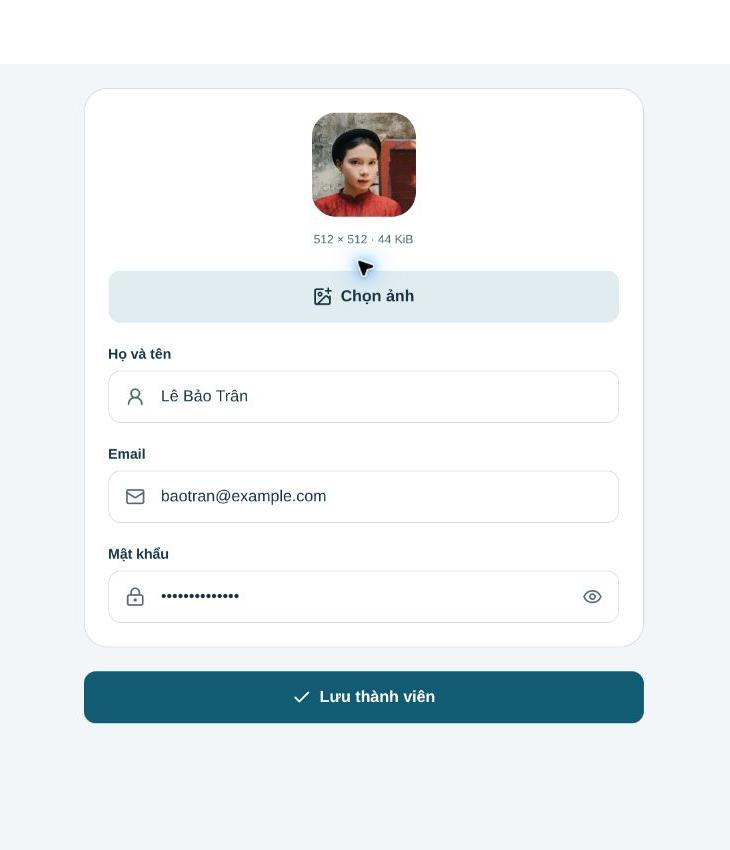
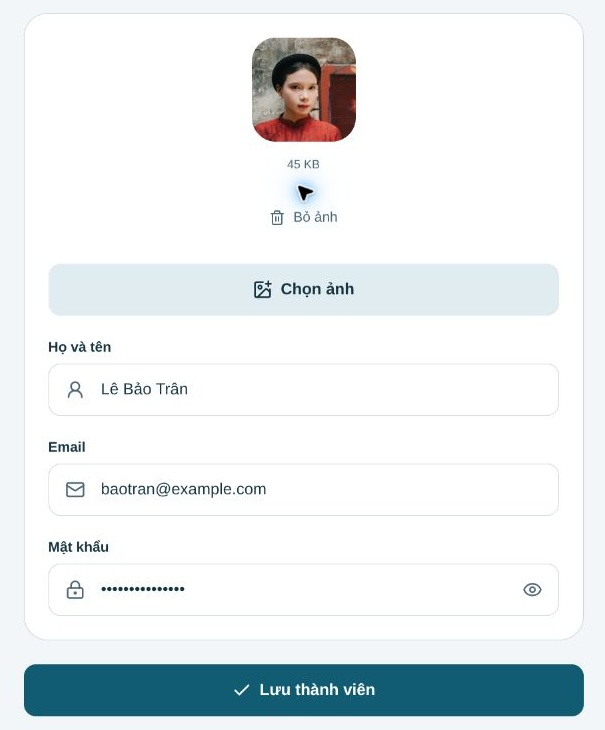
feat: complete member editing and deletion

diff --git a/src/components/member-form.tsx b/src/components/member-form.tsx
@@ -1,5 +1,5 @@
 import { router, usePreventRemove } from 'expo-router';
-import { Camera, Check, Eye, EyeOff, ImagePlus, LockKeyhole, Mail, UserRound } from 'lucide-react-native';
+import { Camera, Check, Eye, EyeOff, ImagePlus, LockKeyhole, Mail, Trash2, UserRound } from 'lucide-react-native';
 import { useEffect, useRef, useState } from 'react';
 import { KeyboardAvoidingView, Platform, Pressable, ScrollView, Text, View } from 'react-native';
 import { useSafeAreaInsets } from 'react-native-safe-area-context';
@@ -10,17 +10,17 @@ import { MemberAvatar } from '@/components/member-avatar';
 import { ControlHeight, Radius, Spacing, TypeSize } from '@/constants/theme';
 import { useTheme } from '@/hooks/use-theme';
 import { pickAvatar, uploadAvatar, type PreparedAvatar } from '@/services/avatars';
-import { createMember, type Member } from '@/services/members';
+import { createMember, updateMember, type Member } from '@/services/members';
 
-export function MemberForm() {
+export function MemberForm({ member }: { member?: Member }) {
   const theme = useTheme(); const insets = useSafeAreaInsets();
-  const [hoten, setName] = useState(''); const [email, setEmail] = useState(''); const [password, setPassword] = useState('');
+  const [hoten, setName] = useState(member?.hoten ?? ''); const [email, setEmail] = useState(member?.email ?? ''); const [password, setPassword] = useState('');
   const [visible, setVisible] = useState(false); const [avatar, setAvatar] = useState<PreparedAvatar | null>(null);
-  const [uploaded, setUploaded] = useState(''); const [busy, setBusy] = useState(false); const [error, setError] = useState('');
+  const [uploaded, setUploaded] = useState(member?.hinhanh ?? ''); const [busy, setBusy] = useState(false); const [error, setError] = useState('');
   const [progress, setProgress] = useState<number | null>(null); const [created, setCreated] = useState<Member | null>(null);
   const [discard, setDiscard] = useState(false); const [leave, setLeave] = useState<(() => void) | null>(null);
   const submitting = useRef(false);
-  const dirty = !!(hoten || email || password || avatar);
+  const dirty = hoten !== (member?.hoten ?? '') || email !== (member?.email ?? '') || !!password || !!avatar || uploaded !== (member?.hinhanh ?? '');
   const disablePrevention = usePreventRemove((dirty || busy) && !created && !discard, ({ repeat }) => {
     if (!busy) setLeave(() => repeat);
   });
@@ -41,15 +41,19 @@ export function MemberForm() {
 
   async function save() {
     if (submitting.current) return;
-    if (!hoten.trim() || !/^[^\s@]+@[^\s@]+\.[^\s@]+$/.test(email.trim()) || password.length < 8) {
-      setError('Nhập họ tên, email hợp lệ và mật khẩu từ 8 ký tự.'); return;
+    if (!hoten.trim() || !/^[^\s@]+@[^\s@]+\.[^\s@]+$/.test(email.trim())) {
+      setError('Nhập họ tên và email hợp lệ.'); return;
+    }
+    if ((!member || password) && password.length < 8) {
+      setError('Mật khẩu cần từ 8 ký tự.'); return;
     }
     submitting.current = true; setBusy(true); setError('');
     try {
       let url = uploaded;
       if (avatar && !url) { setProgress(0); url = await uploadAvatar(avatar, setProgress); setUploaded(url); }
       setProgress(null);
-      setCreated(await createMember({ email, hoten, matkhau: password, hinhanh: url }));
+      const input = { email, hoten, matkhau: password, hinhanh: url };
+      setCreated(member ? await updateMember(member.id, input) : await createMember(input));
       setPassword('');
     } catch (failure) { setError((failure as Error).message); }
     finally { submitting.current = false; setBusy(false); setProgress(null); }
@@ -62,11 +66,16 @@ export function MemberForm() {
         <View style={{ backgroundColor: theme.backgroundElement, borderRadius: Radius.surface,
           padding: Spacing.four, borderWidth: 1, borderColor: theme.border, gap: Spacing.four }}>
           <View style={{ alignItems: 'center', gap: Spacing.three }}>
-            <MemberAvatar uri={avatar?.uri ?? ''} name={hoten || 'thành viên'} size={104} />
+            <MemberAvatar uri={avatar?.uri ?? uploaded} name={hoten || 'thành viên'} size={104} />
             {avatar && <Text style={{ color: theme.textSecondary, fontSize: TypeSize.caption }}>
-              {avatar.width} × {avatar.height} · {Math.ceil(avatar.bytes.length / 1024)} KiB
+              {Math.ceil(avatar.bytes.length / 1000)} KB
             </Text>}
           </View>
+          {(avatar || uploaded) && <Pressable accessibilityRole="button" accessibilityLabel="Bỏ ảnh" disabled={busy}
+            onPress={() => { setAvatar(null); setUploaded(''); }}
+            style={{ minHeight: 44, flexDirection: 'row', gap: Spacing.two, alignItems: 'center', alignSelf: 'center' }}>
+            <Trash2 size={16} color={theme.textSecondary} accessible={false} /><Text style={{ color: theme.textSecondary }}>Bỏ ảnh</Text>
+          </Pressable>}
           <View style={{ flexDirection: 'row', flexWrap: 'wrap', gap: Spacing.two }}>
             <View style={{ flex: 1, minWidth: 140 }}><ActionButton title="Chọn ảnh" icon={ImagePlus} secondary disabled={busy} onPress={() => void choose(false)} /></View>
             {Platform.OS !== 'web' && <View style={{ flex: 1, minWidth: 140 }}><ActionButton title="Chụp ảnh" icon={Camera} secondary disabled={busy} onPress={() => void choose(true)} /></View>}
@@ -74,8 +83,8 @@ export function MemberForm() {
           <FormField label="Họ và tên" icon={UserRound} value={hoten} onChangeText={setName} maxLength={100} autoCapitalize="words" editable={!busy} />
           <FormField label="Email" icon={Mail} value={email} onChangeText={setEmail} maxLength={254} autoCapitalize="none"
             autoCorrect={false} keyboardType="email-address" editable={!busy} />
-          <FormField label="Mật khẩu" icon={LockKeyhole} value={password} onChangeText={setPassword} maxLength={128}
-            placeholder="Từ 8 ký tự" secureTextEntry={!visible} autoCapitalize="none" autoCorrect={false} editable={!busy}
+          <FormField label={member ? 'Mật khẩu mới' : 'Mật khẩu'} icon={LockKeyhole} value={password} onChangeText={setPassword} maxLength={128}
+            placeholder={member ? 'Để trống để giữ mật khẩu cũ' : 'Từ 8 ký tự'} secureTextEntry={!visible} autoCapitalize="none" autoCorrect={false} editable={!busy}
             trailing={<Pressable accessibilityRole="button" accessibilityLabel={visible ? 'Ẩn mật khẩu' : 'Hiện mật khẩu'} onPress={() => setVisible(!visible)}
               style={{ minWidth: 44, minHeight: ControlHeight, justifyContent: 'center', alignItems: 'flex-end' }}>
               {visible ? <EyeOff size={20} color={theme.textSecondary} /> : <Eye size={20} color={theme.textSecondary} />}
@@ -87,7 +96,7 @@ export function MemberForm() {
           <View style={{ height: 4, backgroundColor: theme.backgroundSelected, borderRadius: Radius.control }}>
             <View style={{ height: 4, width: `${progress}%`, backgroundColor: theme.accent, borderRadius: Radius.control }} />
           </View></View>}
-        <ActionButton title={busy ? 'Đang xử lý…' : 'Lưu thành viên'} icon={Check} busy={busy} onPress={() => void save()} />
+        <ActionButton title={busy ? 'Đang lưu…' : member ? 'Lưu thay đổi' : 'Lưu thành viên'} icon={Check} busy={busy} onPress={() => void save()} />
       </View>
     </ScrollView>
     <ConfirmDialog visible={!!leave && !discard} title="Bỏ thay đổi?" message="Thông tin chưa lưu sẽ bị mất."

diff --git a/src/app/members/[id].tsx b/src/app/members/[id].tsx
@@ -1,21 +1,32 @@
-import { useLocalSearchParams } from 'expo-router';
-import { LockKeyhole, Mail } from 'lucide-react-native';
-import { useCallback } from 'react';
+import { router, useLocalSearchParams } from 'expo-router';
+import { LockKeyhole, Mail, Pencil, Trash2 } from 'lucide-react-native';
+import { useCallback, useRef, useState } from 'react';
 import { ActivityIndicator, ScrollView, Text, View } from 'react-native';
 import { useSafeAreaInsets } from 'react-native-safe-area-context';
 
 import { ActionButton } from '@/components/form-controls';
+import { ConfirmDialog } from '@/components/confirm-dialog';
 import { MemberAvatar } from '@/components/member-avatar';
 import { Radius, Spacing, TypeSize } from '@/constants/theme';
 import { useTheme } from '@/hooks/use-theme';
 import { useRemoteData } from '@/hooks/use-remote-data';
-import { getMember } from '@/services/members';
+import { deleteMember, getMember } from '@/services/members';
 
 export default function MemberScreen() {
   const { id } = useLocalSearchParams<{ id: string }>();
   const theme = useTheme(); const insets = useSafeAreaInsets();
   const load = useCallback(() => getMember(id), [id]);
   const { data: member, error, busy, reload } = useRemoteData(load);
+  const [confirm, setConfirm] = useState(false); const [removing, setRemoving] = useState(false); const [actionError, setActionError] = useState('');
+  const deleting = useRef(false);
+
+  async function remove() {
+    if (deleting.current || !member) return;
+    deleting.current = true; setRemoving(true); setActionError('');
+    try { await deleteMember(member.id); router.replace('/'); }
+    catch (failure) { setActionError((failure as Error).message); setConfirm(false); }
+    finally { deleting.current = false; setRemoving(false); }
+  }
 
   return <ScrollView contentInsetAdjustmentBehavior="automatic" contentContainerStyle={{ padding: Spacing.four, paddingBottom: Math.max(insets.bottom, Spacing.four) }}>
     <View style={{ width: '100%', maxWidth: 560, alignSelf: 'center', gap: Spacing.four }}>
@@ -33,6 +44,16 @@ export default function MemberScreen() {
             <Text style={{ color: theme.textSecondary, fontSize: TypeSize.label }}>Mật khẩu đã đặt</Text></View>
         </View>
       </View>}
+      {!busy && !error && member && <>
+        <View style={{ flexDirection: 'row', gap: Spacing.three }}>
+          <View style={{ flex: 1 }}><ActionButton title="Sửa hồ sơ" icon={Pencil} disabled={removing}
+            onPress={() => router.push({ pathname: '/members/edit', params: { id: member.id } })} /></View>
+          <ActionButton title="Xóa" icon={Trash2} secondary danger disabled={removing} onPress={() => setConfirm(true)} />
+        </View>
+        {actionError ? <Text accessibilityRole="alert" style={{ color: theme.danger }}>{actionError}</Text> : null}
+        <ConfirmDialog visible={confirm} title="Xóa thành viên?" message={`${member.hoten}\n${member.email}`} confirmTitle="Xóa thành viên"
+          danger busy={removing} onCancel={() => setConfirm(false)} onConfirm={() => void remove()} />
+      </>}
     </View>
   </ScrollView>;
 }

diff --git a/src/components/form-controls.tsx b/src/components/form-controls.tsx
@@ -5,16 +5,17 @@ import { ActivityIndicator, Pressable, StyleSheet, Text, TextInput, View, type T
 import { ControlHeight, Radius, Spacing, TypeSize } from '@/constants/theme';
 import { useTheme } from '@/hooks/use-theme';
 
-export function ActionButton({ title, onPress, busy = false, secondary = false, disabled = false, icon: Icon }: {
-  title: string; onPress: () => void; busy?: boolean; secondary?: boolean; disabled?: boolean; icon?: LucideIcon;
+export function ActionButton({ title, onPress, busy = false, secondary = false, disabled = false, danger = false, icon: Icon }: {
+  title: string; onPress: () => void; busy?: boolean; secondary?: boolean; disabled?: boolean; danger?: boolean; icon?: LucideIcon;
 }) {
   const theme = useTheme();
+  const color = secondary ? danger ? theme.danger : theme.text : theme.onAccent;
   return <Pressable accessibilityRole="button" accessibilityLabel={title} accessibilityState={{ disabled: disabled || busy, busy }}
     disabled={disabled || busy} onPress={onPress} style={({ pressed }) => [styles.button,
-      { backgroundColor: secondary ? theme.backgroundSelected : theme.accent, opacity: disabled || busy ? 0.6 : pressed ? 0.8 : 1 }]}>
-    {busy && <ActivityIndicator color={secondary ? theme.text : theme.onAccent} />}
-    {!busy && Icon && <Icon size={20} color={secondary ? theme.text : theme.onAccent} accessible={false} />}
-    <Text style={{ color: secondary ? theme.text : theme.onAccent, fontSize: TypeSize.body, fontWeight: '600', flexShrink: 1 }}>{title}</Text>
+      { backgroundColor: secondary ? theme.backgroundSelected : danger ? theme.danger : theme.accent, opacity: disabled || busy ? 0.6 : pressed ? 0.8 : 1 }]}>
+    {busy && <ActivityIndicator color={color} />}
+    {!busy && Icon && <Icon size={20} color={color} accessible={false} />}
+    <Text style={{ color, fontSize: TypeSize.body, fontWeight: '600', flexShrink: 1 }}>{title}</Text>
   </Pressable>;
 }
 

diff --git a/src/components/confirm-dialog.tsx b/src/components/confirm-dialog.tsx
@@ -4,18 +4,19 @@ import { ActionButton } from '@/components/form-controls';
 import { Radius, Spacing, TypeSize } from '@/constants/theme';
 import { useTheme } from '@/hooks/use-theme';
 
-export function ConfirmDialog({ visible, title, message, confirmTitle, onCancel, onConfirm }: {
+export function ConfirmDialog({ visible, title, message, confirmTitle, onCancel, onConfirm, busy = false, danger = false }: {
   visible: boolean; title: string; message: string; confirmTitle: string; onCancel: () => void; onConfirm: () => void;
+  busy?: boolean; danger?: boolean;
 }) {
   const theme = useTheme();
-  return <Modal visible={visible} transparent onRequestClose={onCancel} animationType="fade">
+  return <Modal visible={visible} transparent onRequestClose={() => { if (!busy) onCancel(); }} animationType="fade">
     <View style={{ flex: 1, backgroundColor: 'rgba(0,0,0,0.4)', justifyContent: 'center', alignItems: 'center', padding: Spacing.four }}>
       <View accessibilityViewIsModal style={{ width: '100%', maxWidth: 400, backgroundColor: theme.backgroundElement,
         borderRadius: Radius.surface, padding: Spacing.four, gap: Spacing.four }}>
         <Text accessibilityRole="header" style={{ color: theme.text, fontSize: TypeSize.section, fontWeight: '600' }}>{title}</Text>
         <Text style={{ color: theme.textSecondary, fontSize: TypeSize.body, lineHeight: 24 }}>{message}</Text>
-        <ActionButton title={confirmTitle} onPress={onConfirm} />
-        <ActionButton title="Hủy" secondary onPress={onCancel} />
+        <ActionButton title={confirmTitle} danger={danger} busy={busy} onPress={onConfirm} />
+        <ActionButton title="Hủy" secondary disabled={busy} onPress={onCancel} />
       </View>
     </View>
   </Modal>;

diff --git a/src/app/members/edit.tsx b/src/app/members/edit.tsx
@@ -1,0 +1,23 @@
+import { useLocalSearchParams } from 'expo-router';
+import { useCallback } from 'react';
+import { ActivityIndicator, Text, View } from 'react-native';
+
+import { ActionButton } from '@/components/form-controls';
+import { MemberForm } from '@/components/member-form';
+import { Spacing } from '@/constants/theme';
+import { useRemoteData } from '@/hooks/use-remote-data';
+import { useTheme } from '@/hooks/use-theme';
+import { getMember } from '@/services/members';
+
+export default function EditMemberScreen() {
+  const { id } = useLocalSearchParams<{ id: string }>();
+  const theme = useTheme();
+  const load = useCallback(() => getMember(id), [id]);
+  const { data: member, busy, error, reload } = useRemoteData(load);
+  if (busy) return <ActivityIndicator color={theme.accent} accessibilityLabel="Đang tải hồ sơ" style={{ padding: Spacing.four }} />;
+  if (error || !member) return <View style={{ padding: Spacing.four, gap: Spacing.three }}>
+    <Text accessibilityRole="alert" style={{ color: theme.danger }}>{error || 'Không tìm thấy thành viên.'}</Text>
+    <ActionButton title="Thử lại" onPress={() => void reload()} />
+  </View>;
+  return <MemberForm key={member.id} member={member} />;
+}

diff --git a/src/app/members/_layout.tsx b/src/app/members/_layout.tsx
@@ -1,11 +1,17 @@
-import { Stack } from 'expo-router';
+import { router, Stack } from 'expo-router';
+import { ChevronLeft } from 'lucide-react-native';
+import { Pressable } from 'react-native';
 import { useTheme } from '@/hooks/use-theme';
 
 export default function MembersLayout() {
   const theme = useTheme();
   return <Stack screenOptions={{ headerStyle: { backgroundColor: theme.backgroundElement }, headerTintColor: theme.text,
-    headerShadowVisible: false, contentStyle: { backgroundColor: theme.background } }}>
+    headerShadowVisible: false, contentStyle: { backgroundColor: theme.background },
+    headerLeft: () => <Pressable accessibilityRole="button" accessibilityLabel="Quay lại"
+      onPress={() => router.canGoBack() ? router.back() : router.replace('/')}
+      style={{ minWidth: 44, minHeight: 44, justifyContent: 'center' }}><ChevronLeft size={24} color={theme.text} /></Pressable> }}>
     <Stack.Screen name="new" options={{ title: 'Thêm thành viên' }} />
     <Stack.Screen name="[id]" options={{ title: 'Hồ sơ thành viên' }} />
+    <Stack.Screen name="edit" options={{ title: 'Sửa thành viên' }} />
   </Stack>;
 }

diff --git a/src/services/members.ts b/src/services/members.ts
@@ -5,3 +5,5 @@ export type MemberInput = { email: string; hoten: string; matkhau: string; hinha
 export const listMembers = () => apiRequest<{ members: Member[]; limit: number }>('/members');
 export const getMember = (id: string) => apiRequest<Member>(`/members/${encodeURIComponent(id)}`);
 export const createMember = (input: MemberInput) => apiRequest<Member>('/members', { method: 'POST', body: JSON.stringify(input) });
+export const updateMember = (id: string, input: MemberInput) => apiRequest<Member>(`/members/${encodeURIComponent(id)}`, { method: 'PATCH', body: JSON.stringify(input) });
+export const deleteMember = (id: string) => apiRequest<{ deleted: boolean }>(`/members/${encodeURIComponent(id)}`, { method: 'DELETE' });

diff --git a/docs/submition/README.md b/docs/submition/README.md
@@ -86,11 +86,11 @@ Code gốc ở commit `feat: establish secure cloud admin access`; ảnh 08/09/2
 | `c2-03-create-api-code.png` | Code | API tạo hồ sơ, kiểm tra email trùng đồng thời ở server | R03 | Chưa chụp |
 | `c2-04-profile-response-code.png` | Code | API danh sách/chi tiết bỏ hash khỏi dữ liệu trả về | R04 | Chưa chụp |
 | `c2-05-member-form-code.png` | Code | Form và xử lý submit, hiện/ẩn mật khẩu, lỗi và chống bấm hai lần | R03–R04 | Chưa chụp |
-| `c2-06-web-create-before.jpg` | Thao tác | Nhập đủ email/mật khẩu/họ tên/ảnh, xem trước khi lưu | R03–R04 | Đã chụp Chrome: Lê Bảo Trân, ảnh 512 px / 44 KiB, mật khẩu được che |
+| `c2-06-web-create-before.jpg` | Thao tác | Nhập đủ email/mật khẩu/họ tên/ảnh, xem trước khi lưu | R03–R04 | Đã chụp lại Chrome sau góp ý: Lê Bảo Trân, ảnh áo dài, 45 KB, mật khẩu che |
 | `c2-07-web-upload.png` | Thao tác | Ảnh đang upload và trạng thái lưu; không báo thành công sớm | R03 | Chưa chụp |
 | `c2-08-web-list.jpg` | Kết quả | Danh sách vừa thêm có tên/email/ảnh | R04 | Đã chụp Chrome sau làm mới; ba hồ sơ giả từ web và Android |
 | `c2-09-web-detail.png` | Kết quả | Chi tiết hồ sơ đã lưu, ảnh và trạng thái đã đặt mật khẩu | R04 | Gộp vào ảnh 10 sau tải lại để tránh trùng |
-| `c2-10-web-detail-reloaded.jpg` | Kết quả | Tải lại trình duyệt, hồ sơ vẫn còn | R02–R04 | Đã chụp Chrome: tải lại vẫn còn tên/email/ảnh |
+| `c2-10-web-detail-reloaded.jpg` | Kết quả | Tải lại trình duyệt, hồ sơ vẫn còn | R02–R04 | Đã chụp lại Chrome: Nguyễn Minh Anh, ảnh chân dung, nút sửa/xóa mới |
 | `c2-11-firestore-four-fields-marked.jpg` | CSDL | Console hiển thị document đúng email, matkhau, hoten, hinhanh | R02, R11, S03 | Đã chụp Chrome Console; bốn trường, URL và hash bị rút gọn sẵn trong Console |
 | `c2-12-storage-avatar.jpg` | CSDL | File ảnh demo đúng bucket/prefix, không lộ token tải | R02, S03 | Đã chụp Chrome Console: đúng prefix, ba object JPEG; không mở download token |
 | `c2-13-duplicate-email.jpg` | Kiểm tra | Thêm email đã có bị từ chối, không tạo thêm document | R03 | Đã chụp Chrome: server từ chối email trùng, form còn nguyên |
@@ -114,12 +114,21 @@ Tên và email là dữ liệu minh họa; nguồn ảnh ở `demo-assets/README
 | `c3-02-email-transaction-code.png` | Code | Đổi email qua transaction, không mất hồ sơ hoặc ghi đè email cũ | R07 | Chưa chụp |
 | `c3-03-delete-api-code.png` | Code | Kiểm tra quyền rồi xóa đúng document; xử lý ảnh được tham chiếu | R06 | Chưa chụp |
 | `c3-04-delete-confirm-code.png` | Code | Hộp xác nhận đúng người và nhánh hủy không gửi lệnh xóa | R06 | Chưa chụp |
-| `c3-05-edit-before.png` | Thao tác | Hồ sơ và form trước khi đổi tên/email/ảnh | R07 | Chưa chụp |
-| `c3-06-edit-after.png` | Kết quả | Sau lưu/tải lại, UI và CSDL có thay đổi tương ứng | R07, S03 | Chưa chụp |
-| `c3-07-edit-duplicate-email.png` | Kiểm tra | Đổi sang email trùng bị chặn, hồ sơ cũ còn nguyên | R07 | Chưa chụp |
-| `c3-08-delete-cancel.png` | Thao tác | Mở xác nhận rồi hủy, hồ sơ không mất | R06 | Chưa chụp |
+| `c3-05-edit-before.jpg` | Thao tác | Form đổi tên/email/ảnh trước khi lưu | R07 | Đã chụp Chrome: Nguyễn Văn Rin, rin@example.com, ảnh mới, mật khẩu trống |
+| `c3-06-edit-after.jpg` | Kết quả | Sau lưu/tải lại, UI và CSDL có thay đổi tương ứng | R07, S03 | Đã chụp Chrome sau tải lại; kiểm tra riêng hash không đổi |
+| `c3-07-edit-duplicate-email.jpg` | Kiểm tra | Đổi sang email trùng bị chặn, hồ sơ cũ còn nguyên | R07 | Đã chụp lỗi baotran@example.com; server trả 409 |
+| `c3-08-delete-cancel.jpg` | Thao tác | Mở xác nhận rồi hủy, hồ sơ không mất | R06 | Đã chụp hộp có đúng tên/email; Hủy rồi tải lại còn hồ sơ |
 | `c3-09-delete-after.png` | Kết quả | Xác nhận xóa, tải lại danh sách và đối chiếu CSDL | R06, S03 | Chưa chụp |
 | `c3-10-crud-tests.png` | Kiểm tra | Test transaction/email trùng/giữ mật khẩu và lỗi server | R06–R07, R11 | Chưa chụp |
+| `c3-11-unsaved-cancel.jpg` | Thao tác | Rời form đã sửa rồi chọn Hủy | R07 | Đã chụp Chrome; nội dung và ảnh chọn được giữ để lưu tiếp |
+
+### Ghi chú C3 ngày 10/11/2026
+
+Đã deploy PATCH/DELETE và giao diện sửa/xóa lên Function/site MemberDesk. Đổi email dùng transaction; mật khẩu trống giữ hash mới nhất, có nhập mới thì băm lại. Chrome đã sửa tên/email/ảnh thành Nguyễn Văn Rin, tải lại còn đúng dữ liệu; email trùng bị chặn. Hủy xóa và hủy rời form không làm mất hồ sơ/nội dung.
+
+`pnpm test`: 6/6; Firebase Emulator: 15/15; lint, TypeScript và export web đều qua. `MEMBERDESK_ENV=cloud node scripts/check-crud-cloud.mjs` kiểm tra API cloud thật: tạo, đổi email, giữ/đặt lại mật khẩu, chặn trùng, xóa, GET sau xóa 404. Hồ sơ thử của script đã dọn. Biên nhận không chứa hash/token: [CRUD API](evidence/cloud-crud-api-check.json), [đối chiếu hồ sơ đã sửa](evidence/cloud-crud-check.json). Ảnh thao tác xóa thành công/Console sau xóa và ảnh code/terminal vẫn còn thiếu; chưa đánh dấu đủ minh chứng C3.
+
+Ảnh Chrome 05–08, 11 dùng source ở commit `feat: complete member editing and deletion`. Ảnh 05/11 đối chiếu `MemberForm`; ảnh 06/07 đối chiếu `createMemberStore.update`; ảnh 08 đối chiếu `MemberScreen`/`ConfirmDialog`. Đã thay ảnh C2 06/08/10/13 sau góp ý giao diện và dữ liệu. Bản cũ không giữ trong bộ nộp; bản chụp thô ở vùng riêng. Hai ảnh gốc trong Word giữ nguyên.
 
 ### C4 — Chạy Android và xử lý ảnh
 
